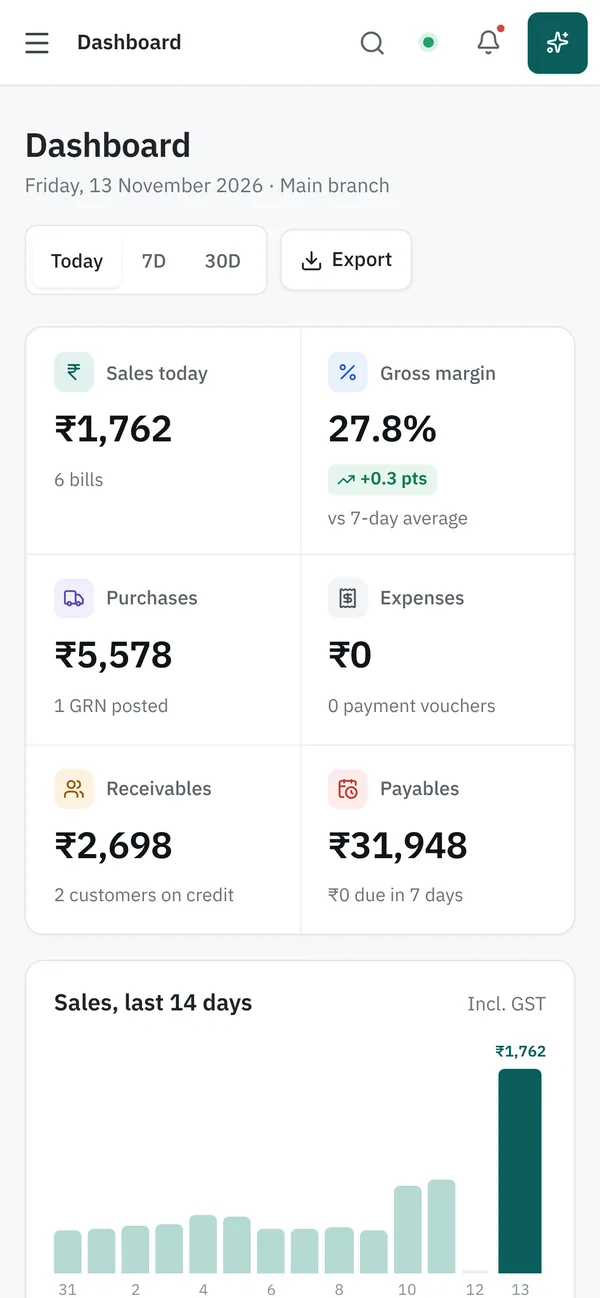
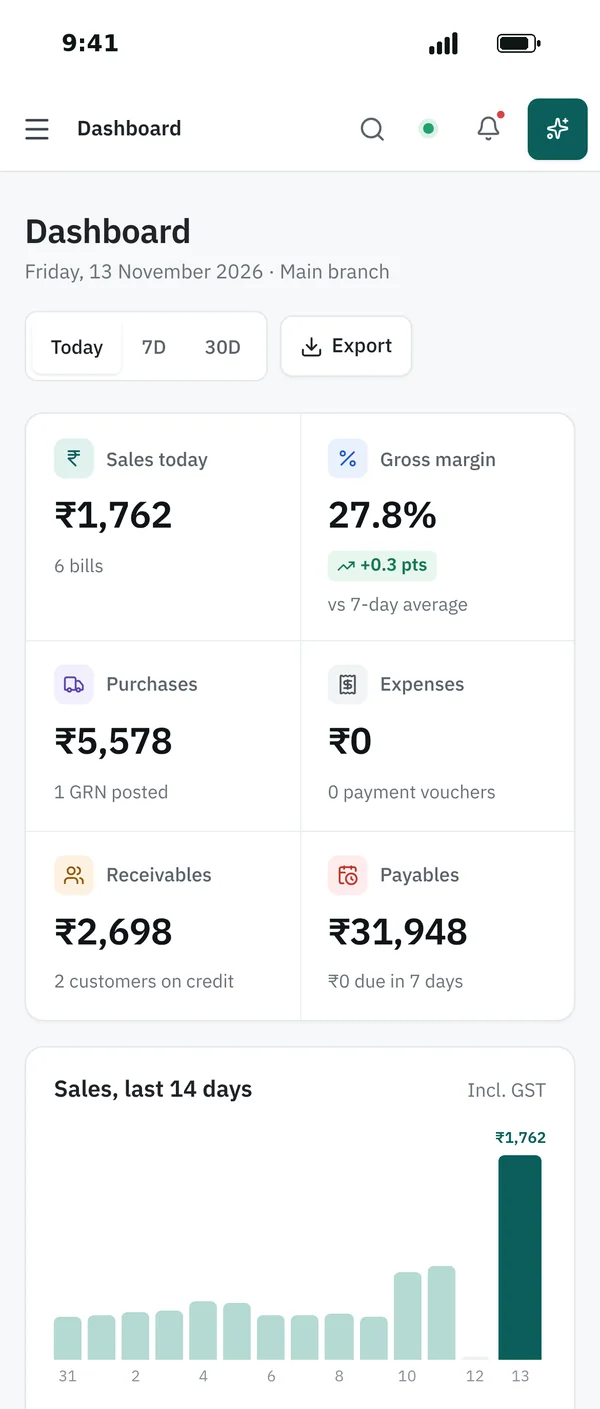
Landing hero: fix the phone mockup (status bar, full chart, tighter corners) (#130)
* HRMS payroll: no absences before the profile existed, final pay for leavers, month opens on its last working day, pro-rated leave

- Days before an employee's HRMS profile was created are 'No record' (paid), not absent.
- Deactivating asks for the last working day; payroll pays up to it in that month.
- A month can be processed only from its last working day; before that it is a preview.
- First-year leave is pro-rated from the joining month.

Claude-Session: https://claude.ai/code/session_01NPXDmMWk7ioUz7VpuCx6Pp

* HRMS leave: half days, unpaid leave, reporting-manager approval, privilege leave carried forward

Claude-Session: https://claude.ai/code/session_01NPXDmMWk7ioUz7VpuCx6Pp

* HRMS exits: notice period, automatic deactivation after the last working day, final settlement with leave encashment and gratuity

Claude-Session: https://claude.ai/code/session_01NPXDmMWk7ioUz7VpuCx6Pp

* HRMS attendance: weekly offs in Settings, per-person shift start, automatic check-out of forgotten days

Claude-Session: https://claude.ai/code/session_01NPXDmMWk7ioUz7VpuCx6Pp

* HRMS payroll: old tax regime with declarations, employer PF/ESI, PF (ECR) and ESI returns, yearly tax statement, salary revisions

Claude-Session: https://claude.ai/code/session_01NPXDmMWk7ioUz7VpuCx6Pp

* HRMS: employee documents (KYC and certificates) with HR verification; HRMS browser test

Claude-Session: https://claude.ai/code/session_01NPXDmMWk7ioUz7VpuCx6Pp
[…]

diff --git a/src/components/site/interactive.tsx b/src/components/site/interactive.tsx
@@ -40,7 +40,7 @@ export function Hero() {
             <Image src={lang === "hi" ? "/site/dashboard-hi.webp" : "/site/dashboard.webp"} alt={t("Medoro dashboard for Sanjeevani Pharmacy: today’s sales, margin, receivables, a 14-day sales chart, low stock and batches expiring within 90 days")} width={2000} height={1250} priority sizes="(min-width: 1248px) 630px, (min-width: 1000px) 52vw, calc(100vw - 32px)" className="block w-full h-auto" />
           </BrowserFrame>
           <div className="absolute -right-2 min-[1248px]:-right-8 -bottom-8 w-[clamp(96px,10vw,136px)] max-[560px]:hidden">
-            <div className="site-phone"><div><Image src="/site/mobile-dashboard.webp" alt={t("The owner’s view of the same dashboard on a phone")} width={600} height={1298} sizes="136px" className="block w-full h-auto" /></div></div>
+            <div className="site-phone"><div><Image src="/site/mobile-dashboard.webp" alt={t("The owner’s view of the same dashboard on a phone")} width={600} height={1409} sizes="136px" className="block w-full h-auto" /></div></div>
           </div>
         </div>
       </div>

diff --git a/src/app/globals.css b/src/app/globals.css
@@ -109,8 +109,8 @@ html:has(.site-root) { scroll-behavior: smooth; background: #fff; }
 
 /* Device frames */
 .site-browser { background: #fff; border: 1px solid #D5DBDA; border-radius: 12px; overflow: hidden; box-shadow: 0 1px 1px rgba(14,22,20,.04), 0 24px 48px -24px rgba(14,22,20,.28); }
-.site-phone { background: #0E1614; border-radius: 34px; padding: 7px; box-shadow: 0 30px 60px -24px rgba(14,22,20,.45); }
-.site-phone > div { border-radius: 28px; overflow: hidden; background: #fff; }
+.site-phone { background: #0E1614; border-radius: 24px; padding: 5px; box-shadow: 0 30px 60px -24px rgba(14,22,20,.45); }
+.site-phone > div { border-radius: 19px; overflow: hidden; background: #fff; }
 
 /* Load-in for the hero only */
 @keyframes site-up { from { opacity: 0; transform: translateY(18px); } to { opacity: 1; transform: none; } }
